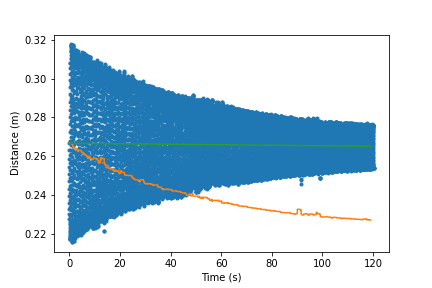
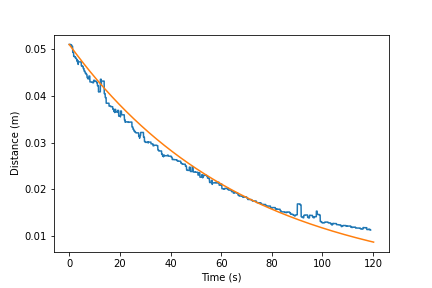
Found the Gamma Coefficient Using Fit on Amplitude

diff --git a/Spring Oscillation/SpringOscillation.py b/Spring Oscillation/SpringOscillation.py
@@ -275,14 +275,16 @@ Amplitudes = zeros(len(dampedXt))
 for i in np.arange(0,12000,1):
     Amplitudes[i] = find_Amplitude(i,dampedX)
     
-def gammaModel(t, gamma, h):
-    return Amplitudes[0]*np.exp(t * gamma)+h
-poptLin, pcovLin = so.curve_fit(gammaModel,dampedXt,dampedX)
+def gammaModel(t, gamma):
+    return Amplitudes[0]*np.exp(t * -gamma)
+poptLin, pcovLin = so.curve_fit(gammaModel,dampedXt,Amplitudes)
 
 pl.cla()
-pl.plot(dampedXt,dampedX, ".")
-pl.plot(dampedXt[0:11900],Amplitudes[0:11900]+poptLin[1]) #0.26625
-pl.plot(dampedXt[0:11900],gammaModel(dampedXt[0:11900],poptLin[0],poptLin[1]))
+#pl.plot(dampedXt,dampedX, ".")
+pl.plot(dampedXt[0:11900],Amplitudes[0:11900]) #0.26625
+pl.plot(dampedXt,gammaModel(dampedXt,poptLin[0]))
 pl.xlabel("Time (s)")
 pl.ylabel("Distance (m)")
 pl.savefig("GAMMA DUMMY")
+
+print("Gamma coefficient is ", poptLin[0])
